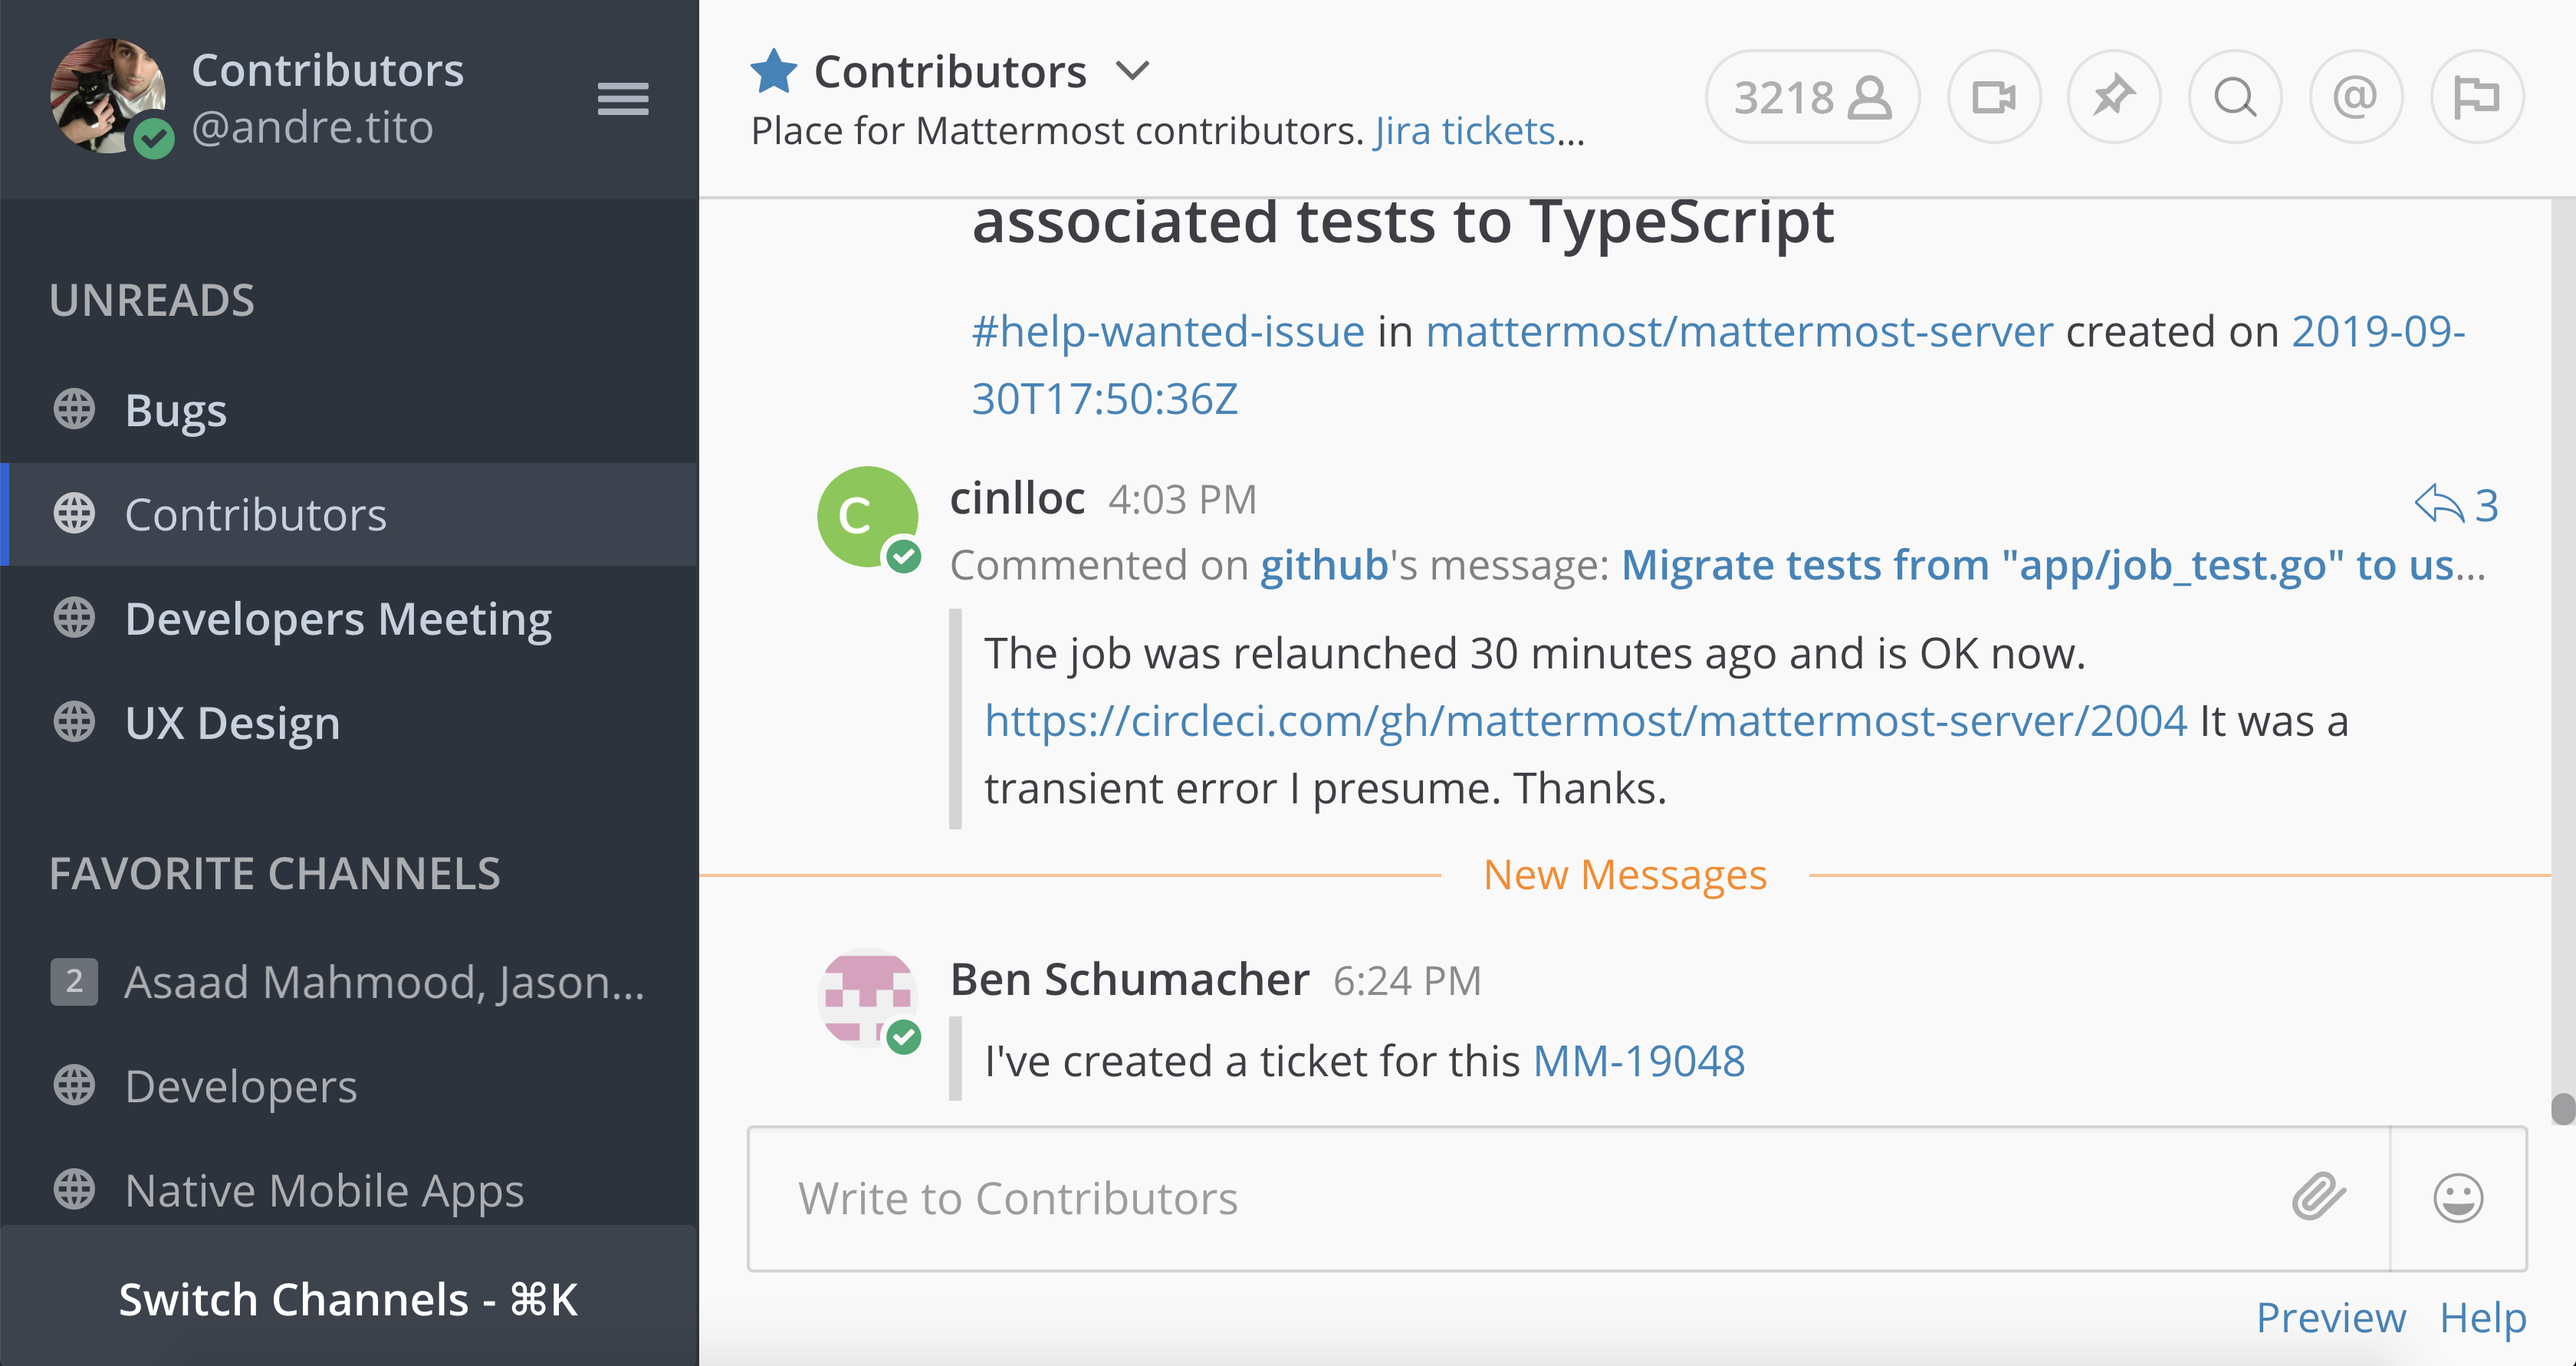
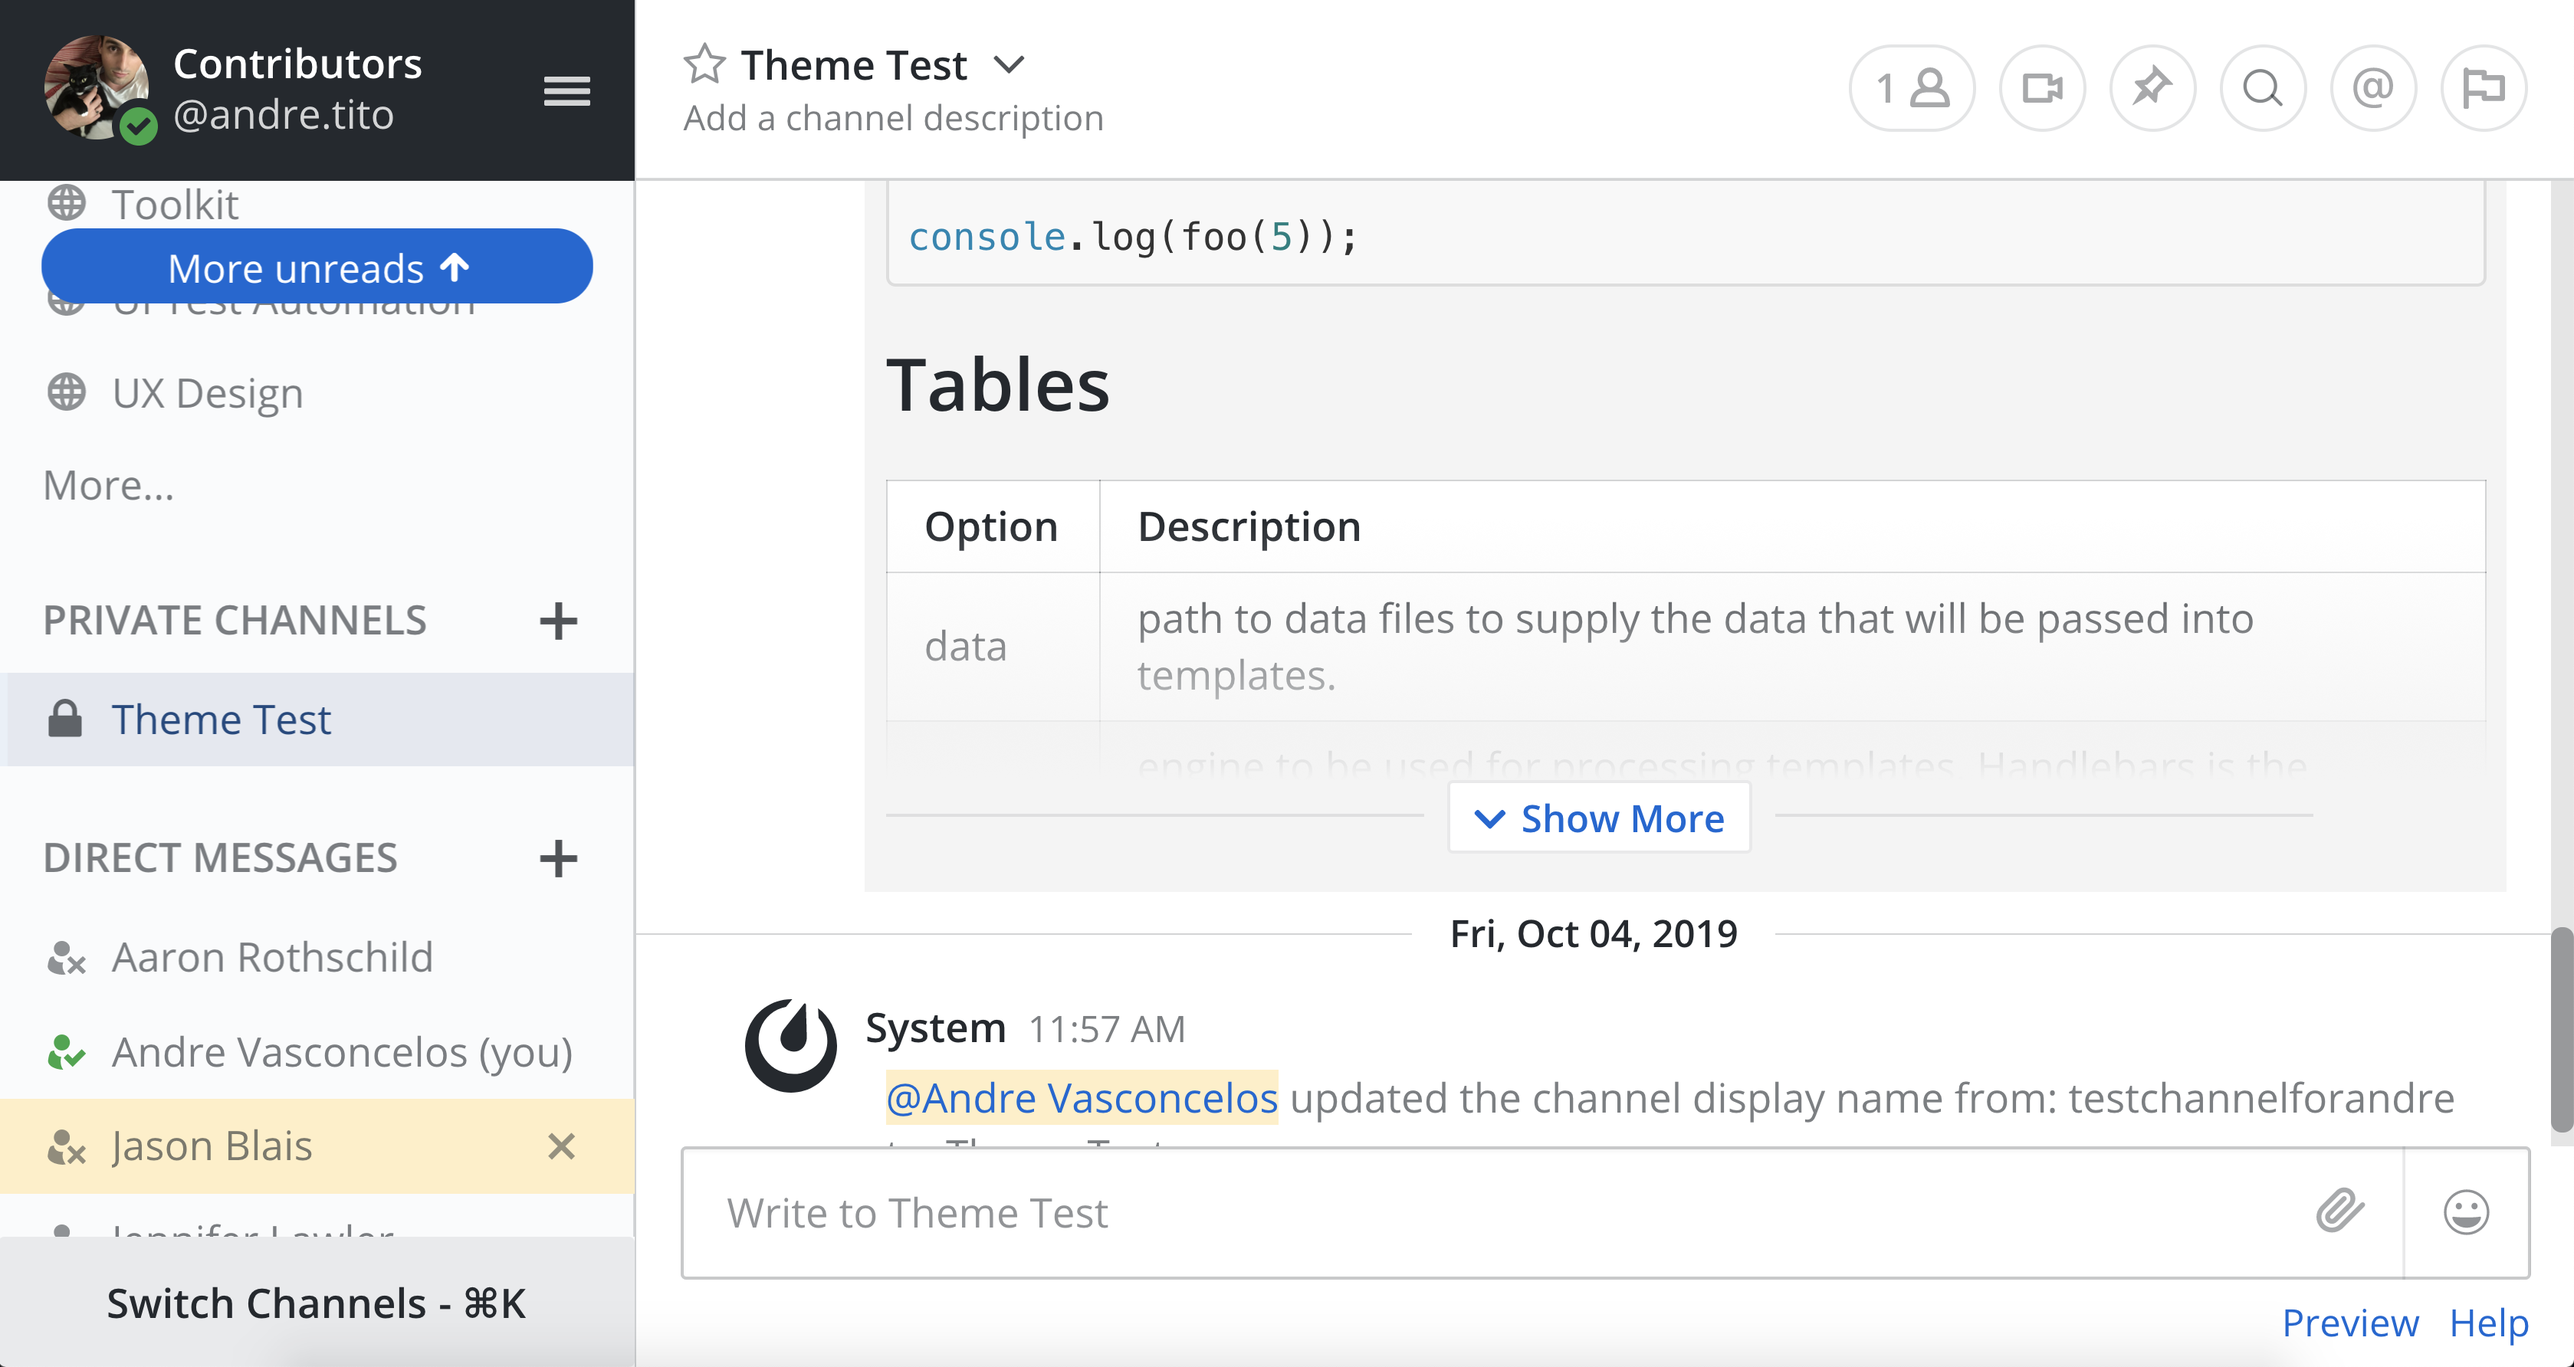
Added Facebook, devRant, github themes

diff --git a/src/themes/github.js b/src/themes/github.js
@@ -2,5 +2,5 @@ export default {
     name: 'GitHub',
     thumbnailUrl: 'github.png',
     type: 'light',
-    theme: {'sidebarBg':'#2b333d','sidebarText':'#ffffff','sidebarUnreadText':'#c5d0de','sidebarTextHoverBg':'#24272d','sidebarTextActiveBorder':'#2761d6','sidebarTextActiveColor':'#c5d0de','sidebarHeaderBg':'#333c47','sidebarHeaderTextColor':'#c5d0de','onlineIndicator':'#26a970','awayIndicator':'#e0b333','dndIndicator':'#ea0b0f','mentionBj':'#24272d','mentionColor':'#ffffff','centerChannelBg':'#faf9f9','centerChannelColor':'#3d3f44','newMessageSeparator':'#ff8800','linkColor':'#3084bb','buttonBg':'#26a970','buttonColor':'#ffffff','errorTextColor':'#fd5960','mentionHighlightBg':'#fff2bb','mentionHighlightLink':'#3084bb','codeTheme':'github','mentionBg':'#24272d'}
+    theme: {"sidebarBg":"#fafbfc","sidebarText":"#24292e","sidebarUnreadText":"#666666","sidebarTextHoverBg":"#ffefc6","sidebarTextActiveBorder":"#e9f0f7","sidebarTextActiveColor":"#1d4880","sidebarHeaderBg":"#24292e","sidebarHeaderTextColor":"#ffffff","onlineIndicator":"#28a745","awayIndicator":"#f1e05a","dndIndicator":"#e34c26","mentionBj":"#0366d6","mentionColor":"#ffffff","centerChannelBg":"#ffffff","centerChannelColor":"#24292e","newMessageSeparator":"#f80","linkColor":"#0366d6","buttonBg":"#26a970","buttonColor":"#ffffff","errorTextColor":"#fd5960","mentionHighlightBg":"#ffefc6","mentionHighlightLink":"#0366d6","codeTheme":"github","mentionBg":"#0366d6"}
 }

diff --git a/src/themes/index.js b/src/themes/index.js
@@ -1,27 +1,31 @@
-import Arc from './arc';
-import BlueOcean from './blueOcean';
-import EightiesLight from './eightiesLight';
-import EmberJs from './emberJs';
-import Github from './github';
-import GruvboxDark from './gruvboxDark';
-import Hacktoberfest from './hacktoberfest';
-import Monokai from './monokai';
-import Nord from './nord';
-import OneDark from './oneDark';
-import SolarizedDark from './solarizedDark';
+import arc from './arc';
+import blueOcean from './blueOcean';
+import devRant from './devRant'
+import eightiesLight from './eightiesLight';
+import emberJs from './emberJs';
+import facebook from './facebook';
+import github from './github';
+import gruvboxDark from './gruvboxDark';
+import hacktoberfest from './hacktoberfest';
+import monokai from './monokai';
+import nord from './nord';
+import oneDark from './oneDark';
+import solarizedDark from './solarizedDark';
 
 const themes = [
-    Arc,
-    BlueOcean,
-    EightiesLight,
-    EmberJs,
-    Github,
-    GruvboxDark,
-    Hacktoberfest,
-    Monokai,
-    Nord,
-    OneDark, 
-    SolarizedDark,
+    arc,
+    blueOcean,
+    devRant,
+    eightiesLight,
+    emberJs,
+    facebook,
+    github,
+    gruvboxDark,
+    hacktoberfest,
+    monokai,
+    nord,
+    oneDark, 
+    solarizedDark,
 ]
 
 export default themes;

diff --git a/src/themes/devRant.js b/src/themes/devRant.js
@@ -1,0 +1,8 @@
+export default {
+    name: 'devRant',
+    thumbnailUrl: 'devRant.png',
+    type: 'dark',
+    theme: {"sidebarBg":"#383952","sidebarText":"#ffffff","sidebarUnreadText":"#ffffff","sidebarTextHoverBg":"#f99a66","sidebarTextActiveBorder":"#f99a66","sidebarTextActiveColor":"#ffffff","sidebarHeaderBg":"#54556e","sidebarHeaderTextColor":"#ffffff","onlineIndicator":"#c14857","awayIndicator":"#e0b333","dndIndicator":"#f74343","mentionBj":"#c14857","mentionColor":"#ffffff","centerChannelBg":"#54556e","centerChannelColor":"#ffffff","newMessageSeparator":"#f80","linkColor":"#aaaab8","buttonBg":"#26a970","buttonColor":"#ffffff","errorTextColor":"#fd5960","mentionHighlightBg":"#c14857","mentionHighlightLink":"#e0b333","codeTheme":"solarized-dark","mentionBg":"#c14857"}
+}
+
+

diff --git a/src/themes/facebook.js b/src/themes/facebook.js
@@ -1,0 +1,9 @@
+export default {
+    name: 'Facebook',
+    thumbnailUrl: 'facebook.png',
+    type: 'light',
+    theme: {"sidebarBg":"#4e69a2","sidebarText":"#ffffff","sidebarUnreadText":"#ffffff","sidebarTextHoverBg":"#38528b","sidebarTextActiveBorder":"#38528b","sidebarTextActiveColor":"#ffffff","sidebarHeaderBg":"#38528b","sidebarHeaderTextColor":"#ffffff","onlineIndicator":"#1fad38","awayIndicator":"#e0b333","dndIndicator":"#f74343","mentionBj":"#ffffff","mentionColor":"#ffffff","centerChannelBg":"#ffffff","centerChannelColor":"#333333","newMessageSeparator":"#f80","linkColor":"#385898","buttonBg":"#26a970","buttonColor":"#ffffff","errorTextColor":"#fd5960","mentionHighlightBg":"#fff9d7","mentionHighlightLink":"#385898","codeTheme":"github","mentionBg":"#CD2323"}
+}
+
+
+

diff --git a/src/components/thumbnail.js b/src/components/thumbnail.js
@@ -19,11 +19,11 @@ function Thumbnail(props) {
         height: 3rem;
         justify-content: center;
         align-items: center;
-        background: ${HexToRgba(props.theme.sidebarBg, 1)};
+        background: ${props.theme.sidebarBg};
     `;
 
     const ThemeTitle = styled.p`
-        color: ${HexToRgba(props.theme.sidebarText, 1)};
+        color: ${props.theme.sidebarText};
     `;
 
     const Image = styled.div`
@@ -50,7 +50,7 @@ function Thumbnail(props) {
 
         span {
             font-size: 2rem;
-            color: ${HexToRgba(props.theme.sidebarText, 1)};
+            color: ${props.theme.sidebarText};
         }
     `;
 
